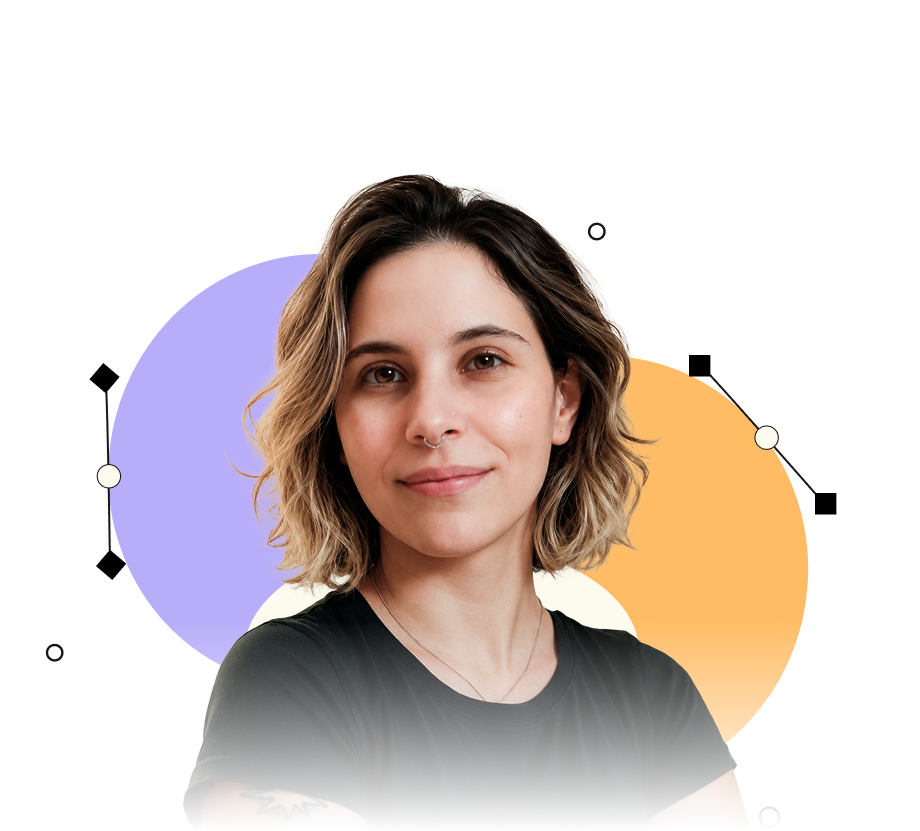
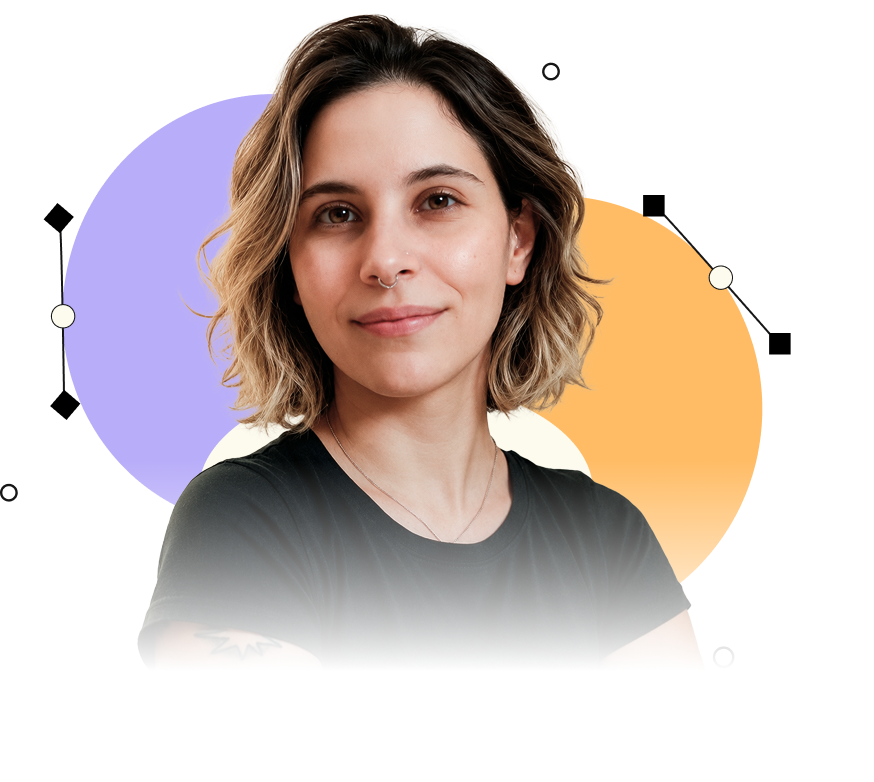
feat: floating contact CTA, navbar hover animations with palette colors, hero image sizing and positioning

diff --git a/src/components/FloatingContact.tsx b/src/components/FloatingContact.tsx
@@ -1,0 +1,48 @@
+import { useState, useEffect } from 'react'
+import { motion, AnimatePresence } from 'framer-motion'
+import { Mail } from 'lucide-react'
+
+export default function FloatingContact() {
+  const [scrolled, setScrolled] = useState(false)
+  const [contactVisible, setContactVisible] = useState(false)
+
+  useEffect(() => {
+    const handleScroll = () => {
+      setScrolled(window.scrollY > 300)
+    }
+    window.addEventListener('scroll', handleScroll)
+    handleScroll()
+    return () => window.removeEventListener('scroll', handleScroll)
+  }, [])
+
+  useEffect(() => {
+    const contact = document.getElementById('contact')
+    if (!contact) return
+    const observer = new IntersectionObserver(
+      ([entry]) => setContactVisible(entry.isIntersecting),
+      { threshold: 0.15 }
+    )
+    observer.observe(contact)
+    return () => observer.disconnect()
+  }, [])
+
+  const visible = scrolled && !contactVisible
+
+  return (
+    <AnimatePresence>
+      {visible && (
+        <motion.a
+          href="#contact"
+          initial={{ opacity: 0, y: 20, scale: 0.95 }}
+          animate={{ opacity: 1, y: 0, scale: 1 }}
+          exit={{ opacity: 0, y: 20, scale: 0.95 }}
+          transition={{ duration: 0.35, ease: 'easeOut' }}
+          className="fixed bottom-5 right-5 z-40 inline-flex items-center gap-2 rounded-full bg-ink px-4 py-2.5 text-sm font-medium text-white shadow-lg shadow-ink/10 transition-colors hover:bg-ink/90 sm:bottom-6 sm:right-6 sm:px-5 sm:py-3"
+        >
+          <Mail className="h-4 w-4" />
+          <span className="hidden sm:inline">Entrar em contato</span>
+        </motion.a>
+      )}
+    </AnimatePresence>
+  )
+}

diff --git a/src/sections/Navbar.tsx b/src/sections/Navbar.tsx
@@ -3,11 +3,11 @@ import { motion, AnimatePresence } from 'framer-motion'
 import { Menu, X } from 'lucide-react'
 
 const links = [
-  { label: 'Home', href: '#home' },
-  { label: 'Sobre', href: '#about' },
-  { label: 'Projetos', href: '#projects' },
-  { label: 'Serviços', href: '#services' },
-  { label: 'Contato', href: '#contact' },
+  { label: 'Home', href: '#home', color: '#7A9B3A' },
+  { label: 'Sobre', href: '#about', color: '#B7A7E6' },
+  { label: 'Projetos', href: '#projects', color: '#E6C27A' },
+  { label: 'Serviços', href: '#services', color: '#7C93B6' },
+  { label: 'Contato', href: '#contact', color: '#D98C7C' },
 ]
 
 export default function Navbar() {
@@ -29,9 +29,16 @@ export default function Navbar() {
             <a
               key={link.label}
               href={link.href}
-              className="transition-colors hover:text-ink"
+              className="group relative inline-flex flex-col items-center py-1 transition-all duration-[350ms] ease-out hover:-translate-y-0.5"
+              style={{ transitionProperty: 'color, transform' }}
+              onMouseEnter={(e) => { (e.currentTarget as HTMLElement).style.color = link.color }}
+              onMouseLeave={(e) => { (e.currentTarget as HTMLElement).style.color = '' }}
             >
               {link.label}
+              <span
+                className="mt-1 h-[2px] w-0 rounded-full opacity-80 transition-all duration-[350ms] ease-out group-hover:w-full"
+                style={{ backgroundColor: link.color }}
+              />
             </a>
           ))}
         </nav>

diff --git a/src/sections/Contact.tsx b/src/sections/Contact.tsx
@@ -15,7 +15,10 @@ export default function Contact() {
             <p className="mb-3 text-xs font-semibold uppercase tracking-[0.2em] text-white/50">
               Vamos conversar?
             </p>
-            <h2 className="mb-4 text-3xl font-bold tracking-tight sm:text-4xl">
+            <h2
+              className="mb-4 text-[2.8rem] leading-[1] font-normal sm:text-[3.2rem]"
+              style={{ fontFamily: '"Special Gothic Condensed One", sans-serif' }}
+            >
               Tem um projeto em mente?
             </h2>
             <p className="mb-8 max-w-md text-base leading-relaxed text-white/60">
@@ -121,7 +124,10 @@ export default function Contact() {
 
       <div className="border-t border-white/10">
         <div className="mx-auto flex max-w-7xl flex-col items-center justify-between gap-4 px-6 py-6 sm:flex-row">
-          <span className="text-lg font-bold tracking-tight">FL</span>
+          <span
+            className="text-2xl font-normal tracking-tight"
+            style={{ fontFamily: '"Special Gothic Condensed One", sans-serif' }}
+          >FL</span>
           <p className="text-xs text-white/40">
             &copy; {new Date().getFullYear()} Flávia Letícia. Todos os direitos reservados.
           </p>

diff --git a/src/sections/Hero.tsx b/src/sections/Hero.tsx
@@ -60,7 +60,7 @@ export default function Hero() {
   return (
     <section
       id="home"
-      className="relative mx-auto flex min-h-[calc(100svh-4rem)] max-w-7xl flex-col justify-center px-6 pt-28 pb-12 lg:pt-24"
+      className="relative mx-auto flex min-h-[calc(100svh-4rem)] max-w-7xl flex-col justify-center px-6 pt-28 pb-4 lg:pt-24"
     >
       {/* Layout grid: texto esquerda + foto direita */}
       <div className="grid w-full grid-cols-1 items-center gap-8 md:grid-cols-2 md:gap-12">
@@ -132,11 +132,11 @@ export default function Hero() {
           transition={{ duration: 0.8, delay: 0.2 }}
           className="relative flex items-center justify-center lg:justify-end"
         >
-          <div className="relative h-[320px] w-[320px] sm:h-[380px] sm:w-[380px] md:h-[420px] md:w-[420px] lg:h-[480px] lg:w-[480px]">
+          <div className="relative h-[384px] w-[384px] sm:h-[456px] sm:w-[456px] md:h-[504px] md:w-[504px] lg:h-[576px] lg:w-[576px]">
             <img
               src="/images/image-hero.png"
               alt="Flávia Letícia"
-              className="h-full w-full object-contain object-top"
+              className="h-full w-full object-contain object-bottom"
               style={{ filter: 'saturate(0.9)' }}
               onError={(e) => {
                 ;(e.target as HTMLImageElement).style.display = 'none'
@@ -144,7 +144,7 @@ export default function Hero() {
             />
             {/* Gradiente branco na base da foto */}
             <div
-              className="pointer-events-none absolute bottom-0 left-0 right-0 h-[25%]"
+              className="pointer-events-none absolute bottom-0 left-0 right-0 h-[12%]"
               style={{
                 background: 'linear-gradient(to bottom, transparent 0%, #ffffff 80%)',
               }}

diff --git a/src/sections/Projects.tsx b/src/sections/Projects.tsx
@@ -58,7 +58,10 @@ export default function Projects() {
           <p className="mb-3 text-xs font-semibold uppercase tracking-[0.2em] text-muted">
             Portfolio
           </p>
-          <h2 className="text-3xl font-bold tracking-tight text-ink sm:text-4xl">
+          <h2
+            className="text-[2.8rem] leading-[1] font-normal text-ink sm:text-[3.2rem]"
+            style={{ fontFamily: '"Special Gothic Condensed One", sans-serif' }}
+          >
             Projetos em destaque
           </h2>
         </div>

diff --git a/src/sections/Services.tsx b/src/sections/Services.tsx
@@ -41,7 +41,10 @@ export default function Services() {
         <p className="mb-3 text-xs font-semibold uppercase tracking-[0.2em] text-muted">
           Serviços
         </p>
-        <h2 className="text-3xl font-bold tracking-tight text-ink sm:text-4xl">
+        <h2
+            className="text-[2.8rem] leading-[1] font-normal text-ink sm:text-[3.2rem]"
+            style={{ fontFamily: '"Special Gothic Condensed One", sans-serif' }}
+          >
           Como posso te ajudar
         </h2>
       </motion.div>

diff --git a/src/App.tsx b/src/App.tsx
@@ -5,6 +5,7 @@ import Services from './sections/Services'
 import Projects from './sections/Projects'
 import Testimonials from './sections/Testimonials'
 import Contact from './sections/Contact'
+import FloatingContact from './components/FloatingContact'
 
 function App() {
   return (
@@ -18,6 +19,7 @@ function App() {
         <Testimonials />
       </main>
       <Contact />
+      <FloatingContact />
     </div>
   )
 }